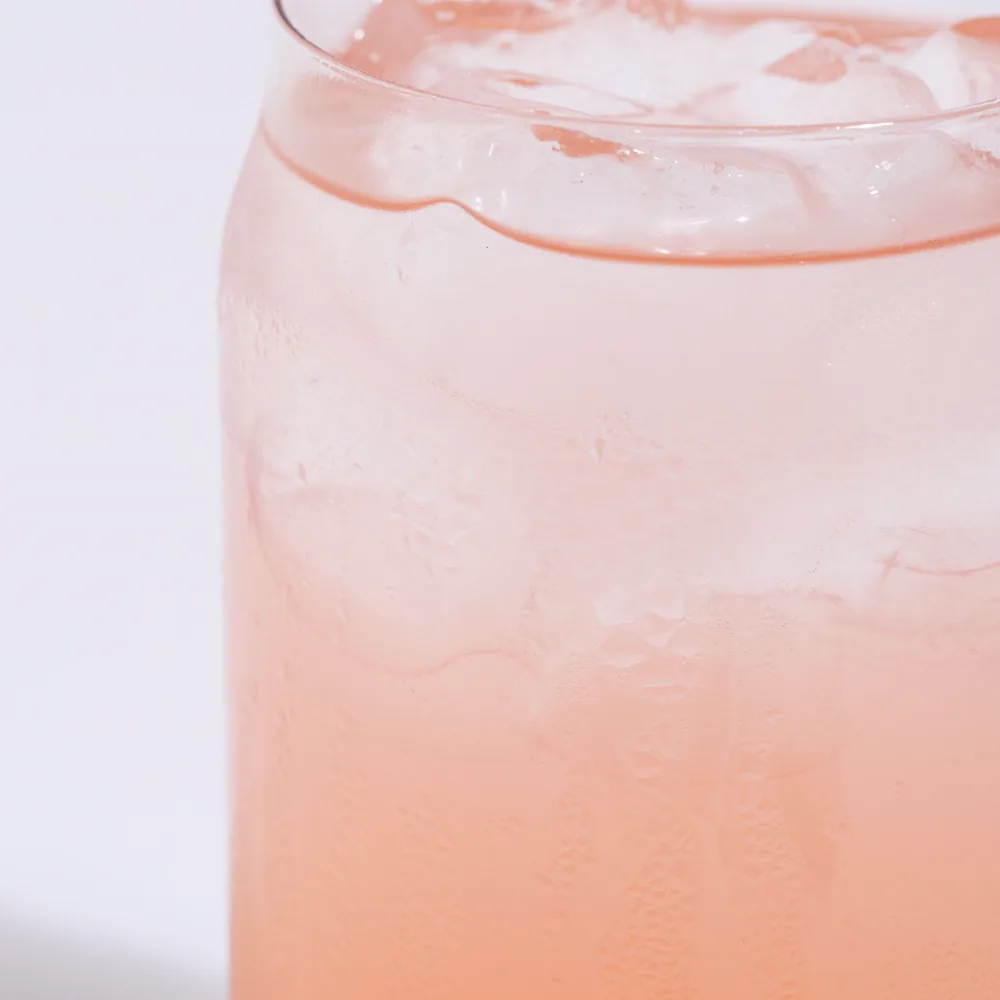
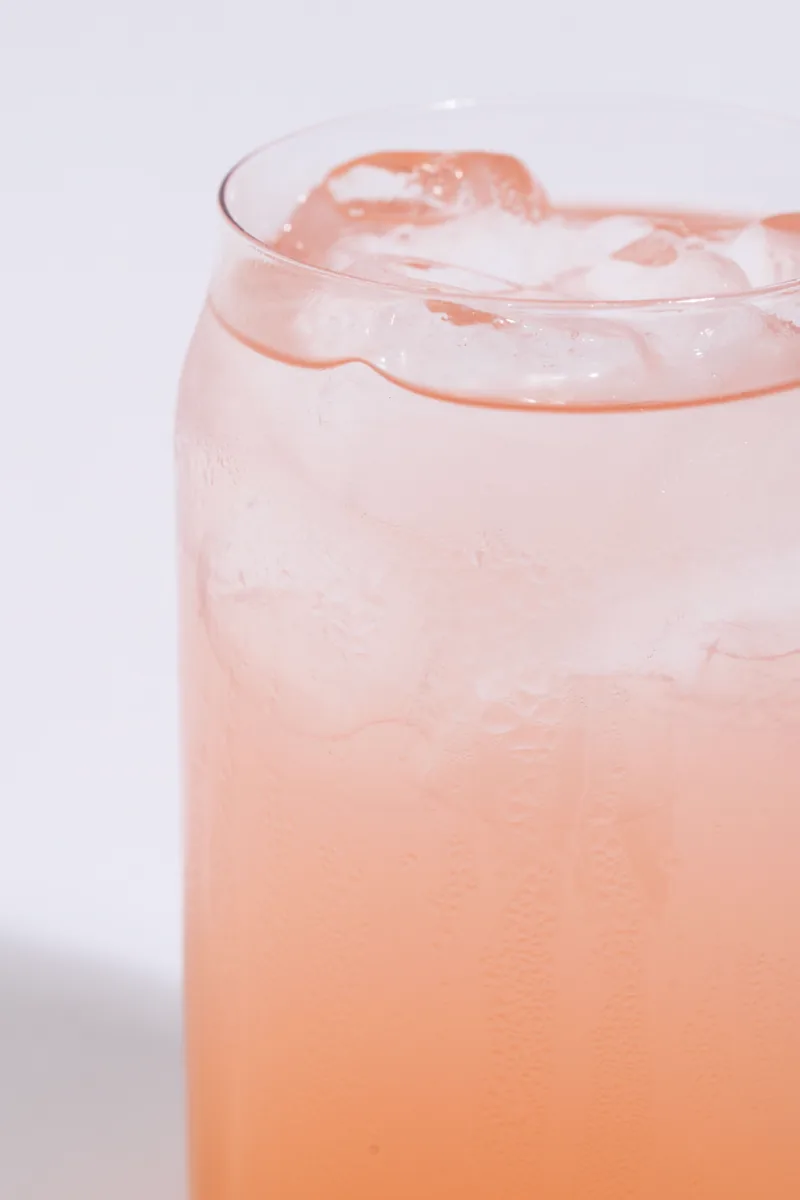
Add the new drink photos, white shop-nav branding, and fix gallery cropping
Three photos wired in, each re-encoded to webp at the size its neighbours use:
Iced Spanish Latte (square, 1000px) fills a product that had no image at all,
while the wild berry and passion fruit second shots arrived as 2:3 portraits
and keep that ratio at 800x1200 rather than being squared off.

Those portraits exposed a real bug. ProductGallery decided cover-vs-contain by
mutating classList from onLoad, which failed two ways: React never fires onLoad
for an image the browser already cached, and every scroll re-renders the track,
restoring the JSX className and wiping the mutation. Whether a portrait showed
whole or got sliced came down to cache timing. The ratio now lives in state and
is measured from a ref as well as onLoad, so it survives re-renders either way.

On the products hero the cart and logo now follow the same onImage switch the
nav links use - white Plogo and white cart over the photo, blue wordmark and
blue cart on the light pages, where a white mark would vanish.

diff --git a/src/components/products/productsData.js b/src/components/products/productsData.js
@@ -57,6 +57,9 @@ import sizzlingFajita2 from '../../assets/category/fajita sandwich 2.webp'
 import passionFruit1 from '../../assets/category/passion fruit chiller 1.webp'
 import passionFruit2 from '../../assets/category/passion fruit chiller 2.webp'
 import wildBerry1 from '../../assets/category/wild berry chiller 1.webp'
+// Supplied as a 2:3 portrait like sssc1, so it keeps that ratio rather than being
+// squared off; the gallery switches to object-contain for non-square shots.
+import wildBerry2 from '../../assets/category/wild berry chiller 2.webp'
 // Shipped exactly as supplied (2:3 portrait, 3857x5786). ProductCard and
 // ProductGallery detect non-square photos and switch to object-contain, so this
 // is shown whole instead of being sliced to fill the square frame.
@@ -69,6 +72,7 @@ import caramelLatteImg from '../../assets/category/caramel latte.webp'
 import icedCappuccino2 from '../../assets/category/iced cappuccino 2.webp'
 import icedLatte1 from '../../assets/category/iced latte 1.webp'
 import icedCaramelLatte1 from '../../assets/category/iced caramel latte 1.webp'
+import icedSpanishLatte1 from '../../assets/category/iced spanish latte 1.webp'
 // Frappe studio shots live in src/assets (not category/), square 2194x2194 on white.
 import caramelFrappe1 from '../../assets/caramel.webp'
 import cookiesCreamFrappe1 from '../../assets/Cookies&Cream.webp'
@@ -135,7 +139,7 @@ export const PRODUCTS = withPrimaryImage([
   // ---- Drinks / Iced Coffee ----
   { id: 31, name: 'Iced Cappuccino', price: 599, category: 'Drinks', type: 'Iced Coffee', size: 'sm', images: [icedCappuccino2], description: DRINK_DESCRIPTION, reviews: REVIEWS },
   { id: 32, name: 'Iced Latte', price: 599, category: 'Drinks', type: 'Iced Coffee', size: 'sm', images: [icedLatte1], description: DRINK_DESCRIPTION, reviews: REVIEWS },
-  { id: 33, name: 'Iced Spanish Latte', price: 699, category: 'Drinks', type: 'Iced Coffee', size: 'sm', description: DRINK_DESCRIPTION, reviews: REVIEWS },
+  { id: 33, name: 'Iced Spanish Latte', price: 699, category: 'Drinks', type: 'Iced Coffee', size: 'sm', images: [icedSpanishLatte1], description: DRINK_DESCRIPTION, reviews: REVIEWS },
   { id: 34, name: 'Iced Caramel Latte', price: 699, category: 'Drinks', type: 'Iced Coffee', size: 'sm', images: [icedCaramelLatte1], description: DRINK_DESCRIPTION, reviews: REVIEWS },
 
   // ---- Drinks / Frappes (Blended Iced, 799) ----
@@ -147,7 +151,7 @@ export const PRODUCTS = withPrimaryImage([
 
   // ---- Drinks / Chillers + Extras ----
   { id: 40, name: 'Passion Fruit Chiller', price: 299, category: 'Drinks', type: 'Chillers', size: 'sm', images: [passionFruit1, passionFruit2], description: DRINK_DESCRIPTION, reviews: REVIEWS },
-  { id: 41, name: 'Wild Berry Chiller', price: 299, category: 'Drinks', type: 'Chillers', size: 'sm', images: [wildBerry1], description: DRINK_DESCRIPTION, reviews: REVIEWS },
+  { id: 41, name: 'Wild Berry Chiller', price: 299, category: 'Drinks', type: 'Chillers', size: 'sm', images: [wildBerry1, wildBerry2], description: DRINK_DESCRIPTION, reviews: REVIEWS },
   { id: 42, name: 'Strawberry Chiller', price: 299, category: 'Drinks', type: 'Chillers', size: 'sm', images: [strawberryChillerSc, strawberryChiller2], description: DRINK_DESCRIPTION, reviews: REVIEWS },
   { id: 43, name: 'Water', price: 120, category: 'Drinks', type: 'Extras', size: 'sm', description: 'Chilled bottled water.', reviews: REVIEWS },
 ])

diff --git a/src/components/productDetail/ProductGallery.jsx b/src/components/productDetail/ProductGallery.jsx
@@ -1,12 +1,29 @@
 import { useEffect, useRef, useState } from 'react'
 import { FaChevronLeft, FaChevronRight } from 'react-icons/fa'
 
+const isNonSquare = (img) =>
+  !!img && !!img.naturalWidth && !!img.naturalHeight &&
+  Math.abs(img.naturalWidth / img.naturalHeight - 1) > 0.02
+
 // Horizontal scroll-snap gallery for the product detail page. Swipe on touch,
 // arrows / thumbnails on desktop. Falls back to a single tile when a product
 // has one photo, and to the neutral placeholder when it has none.
 export default function ProductGallery({ images = [], name }) {
   const trackRef = useRef(null)
   const [index, setIndex] = useState(0)
+
+  // Which photos are non-square, so they can be shown whole instead of sliced to
+  // fill the square frame. Held in state rather than toggled on the node: this
+  // component re-renders on every scroll, and React would restore the JSX
+  // className each time, undoing any class added directly to the element.
+  const [wholeShots, setWholeShots] = useState({})
+
+  // Measured from both a ref and onLoad: React attaches onLoad after mount, so a
+  // photo the browser already had cached never fires it - the ref covers those.
+  const measure = (img, i) => {
+    if (!isNonSquare(img)) return
+    setWholeShots((current) => (current[i] ? current : { ...current, [i]: true }))
+  }
 
   // Keep the active dot/thumbnail in sync with wherever the user scrolled to.
   useEffect(() => {
@@ -62,14 +79,11 @@ export default function ProductGallery({ images = [], name }) {
               alt={`${name} — photo ${i + 1} of ${images.length}`}
               loading={i === 0 ? 'eager' : 'lazy'}
               draggable="false"
-              onLoad={(event) => {
-                const { naturalWidth, naturalHeight } = event.currentTarget
-                if (Math.abs(naturalWidth / naturalHeight - 1) > 0.02) {
-                  event.currentTarget.classList.remove('object-cover')
-                  event.currentTarget.classList.add('object-contain', 'bg-[#eceef3]')
-                }
-              }}
-              className="w-full h-full flex-none object-cover snap-center"
+              ref={(el) => measure(el, i)}
+              onLoad={(event) => measure(event.currentTarget, i)}
+              className={`w-full h-full flex-none snap-center ${
+                wholeShots[i] ? 'object-contain bg-[#eceef3]' : 'object-cover'
+              }`}
             />
           ))}
         </div>

diff --git a/src/components/products/ShopNav.jsx b/src/components/products/ShopNav.jsx
@@ -4,6 +4,7 @@ import { FaShoppingCart } from 'react-icons/fa'
 import { useCart } from '../../context/CartContext'
 import MobileNavMenu from '../MobileNavMenu'
 import SugarLoopMark from '../SugarLoopMark'
+import plogo from '../../assets/Plogo.svg'
 
 // Steps up to 2xl only past 1536px - at 24px the five links plus the enlarged
 // logo need ~1393px, which forces the whole document to scroll sideways on
@@ -47,7 +48,14 @@ export default function ShopNav({ onImage = false }) {
   return (
     <nav className="relative z-[2] flex items-center justify-between gap-4 pt-5 px-5 pb-0 lg:pt-10 lg:px-[clamp(2rem,5vw,5.5rem)] lg:pb-0">
       <Link to="/" aria-label="Sugarloop home">
-        <SugarLoopMark className="h-[7.2rem] w-auto aspect-[432/288] block" />
+        {/* Plogo is a white mark, so it only works over the hero photo - the light
+            pages keep the blue wordmark or the logo would vanish into the page.
+            It carries its own 432x307.47 ratio, so height alone sizes it. */}
+        {onImage ? (
+          <img src={plogo} alt="Sugarloop" className="h-[7.2rem] w-auto block" />
+        ) : (
+          <SugarLoopMark className="h-[7.2rem] w-auto aspect-[432/288] block" />
+        )}
       </Link>
 
       <ul className="hidden lg:flex list-none gap-[clamp(1.5rem,3vw,3rem)] m-0 ml-auto p-0">
@@ -58,8 +66,12 @@ export default function ShopNav({ onImage = false }) {
         ))}
       </ul>
 
+      {/* Cart follows the links: white over the hero photo, accent on the light
+          pages where a white cart would disappear. */}
       <div
-        className="relative flex items-center text-accent text-[1.1rem] ml-auto mr-3 lg:ml-8 lg:text-[1.25rem]"
+        className={`relative flex items-center text-[1.1rem] ml-auto mr-3 lg:ml-8 lg:text-[1.25rem] ${
+          onImage ? 'text-white' : 'text-accent'
+        }`}
         aria-label={`Cart, ${count} items`}
       >
         <FaShoppingCart />
